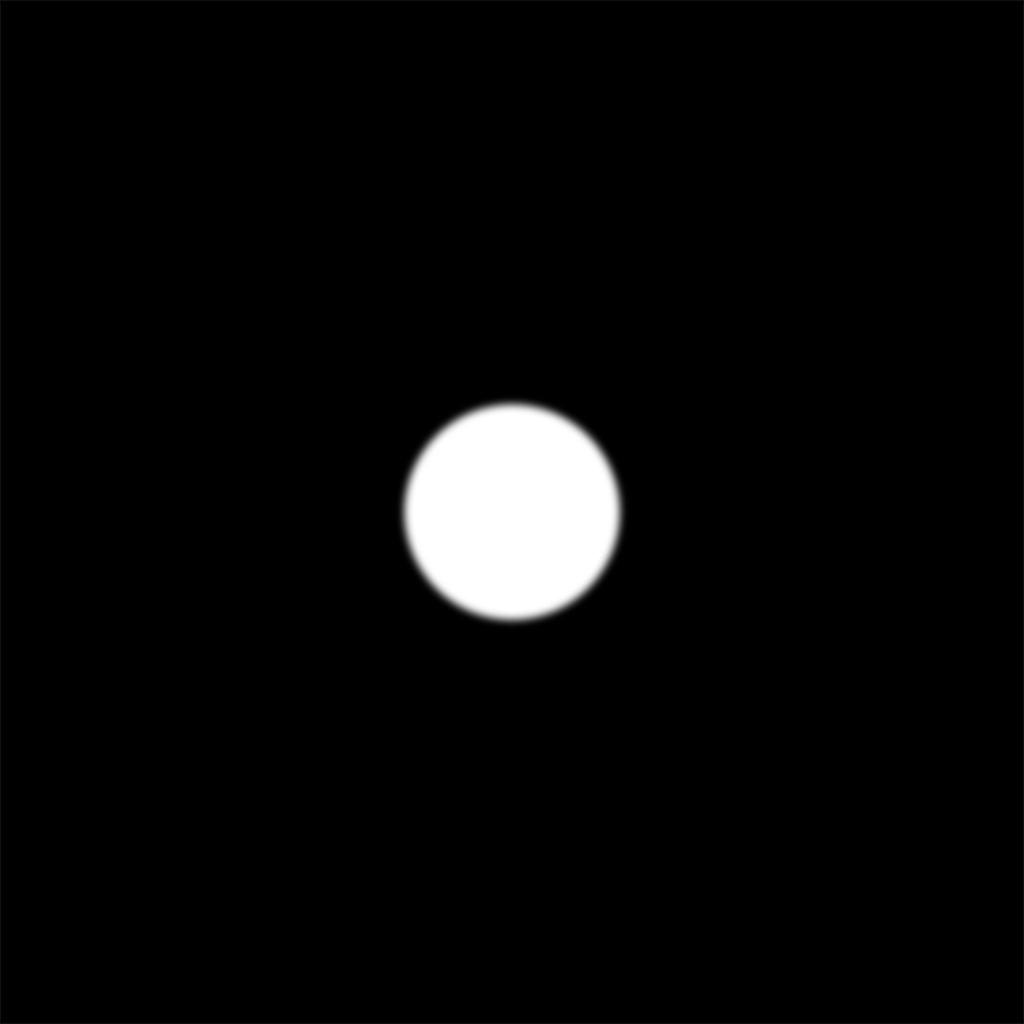
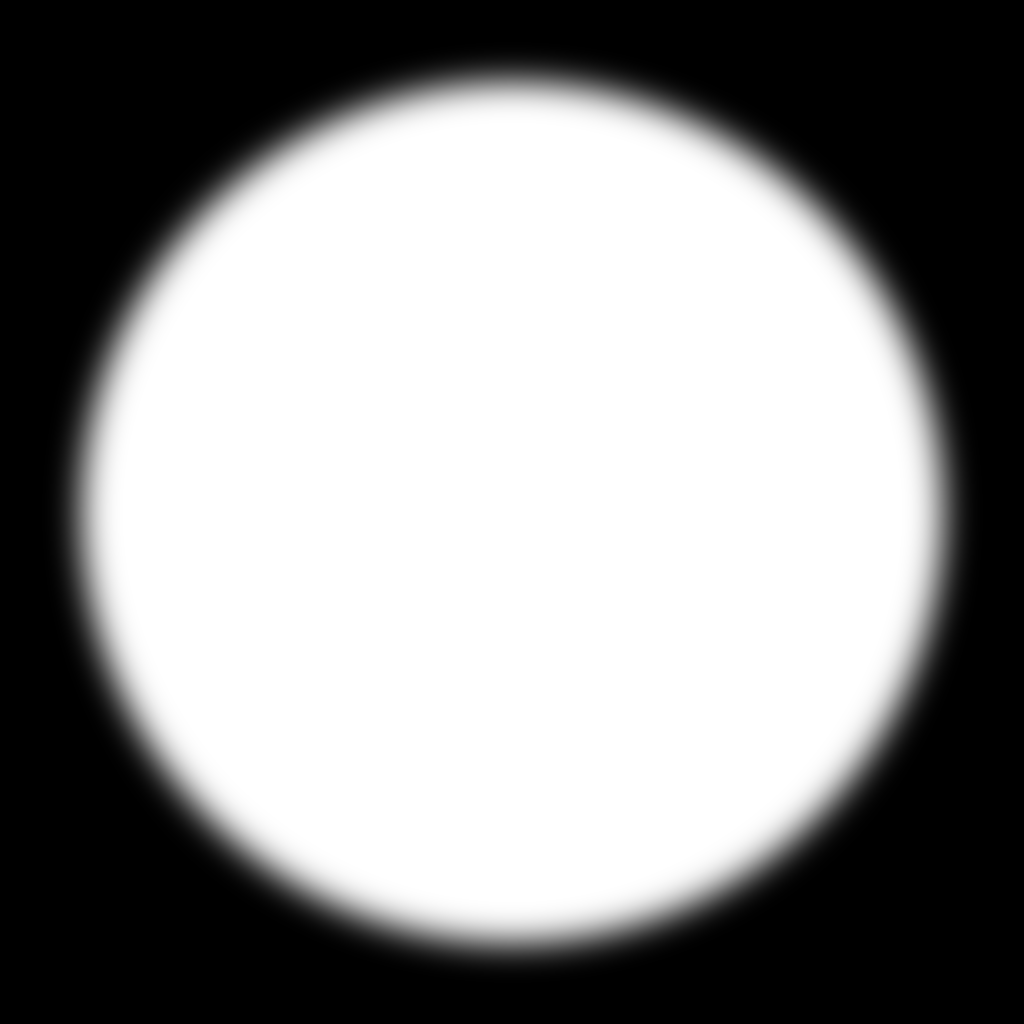
Slightly better scope but needs work

diff --git a/code/ui/LongshotScope.scss b/code/ui/LongshotScope.scss
@@ -5,17 +5,21 @@ longshotscope {
 	position: absolute;
 	width: 100%;
 	height: 100%;
-	align-items: center;
-	justify-content: center;
 	left: 0px;
 	top: 0px;
 	opacity: 1;
 	z-index: -1;
 
+	.left, .right, .top, .bottom {
+		background-color: black;
+		position: absolute;
+	}
+
 	.inner {
-		width: 2048px;
-		height: 2048px;
-		margin-top: 10%;
+		width: 1024px;
+		height: 1024px;
+		position: absolute;
+		transform: translateX( -50% ) translateY( -50% );
 	}
 
 	&.hidden {

diff --git a/code/ui/LongshotScope.cs b/code/ui/LongshotScope.cs
@@ -9,6 +9,10 @@ namespace Facepunch.Hover
 	{
 		public static LongshotScope Instance { get; private set; }
 
+		public Panel Left { get; private set; }
+		public Panel Right { get; private set; }
+		public Panel Top { get; private set; }
+		public Panel Bottom { get; private set; }
 		public Image Inner { get; private set; }
 
 		public void Show()
@@ -25,11 +29,48 @@ namespace Facepunch.Hover
 		{
 			StyleSheet.Load( "/ui/LongshotScope.scss" );
 
+			Left = Add.Panel( "left" );
+			Right = Add.Panel( "right" );
+			Top = Add.Panel( "top" );
+			Bottom = Add.Panel( "bottom" );
 			Inner = Add.Image( "ui/scope_inner.png", "inner" );
 
 			Instance = this;
 
 			Hide();
+		}
+
+		public override void Tick()
+		{
+			var screenSize = Screen.Size * ScaleFromScreen;
+			var scopeSize = screenSize.y * 0.5f;
+
+			Inner.Style.Width = scopeSize;
+			Inner.Style.Height = scopeSize;
+			Inner.Style.Left = Length.Pixels( screenSize.x / 2f );
+			Inner.Style.Top = Length.Pixels( screenSize.y / 2f );
+
+			Left.Style.Width = ((screenSize.x * 0.5f) - (scopeSize * 0.5f)) + 1f;
+			Left.Style.Top = scopeSize * 0.5f;
+			Left.Style.Left = 0f;
+			Left.Style.Height = screenSize.y - (scopeSize * 0.5f);
+
+			Right.Style.Width = Left.Style.Width;
+			Right.Style.Left = ((screenSize.x * 0.5f) + (scopeSize * 0.5f)) - 1f;
+			Right.Style.Top = scopeSize * 0.5f;
+			Right.Style.Height = screenSize.y - (scopeSize * 0.5f);
+
+			Top.Style.Top = 0f;
+			Top.Style.Width = screenSize.x;
+			Top.Style.Height = (scopeSize * 0.5f) + 1f;
+			Top.Style.Left = 0f;
+
+			Bottom.Style.Bottom = 0f;
+			Bottom.Style.Width = screenSize.x;
+			Bottom.Style.Height = (scopeSize * 0.5f) + 1f;
+			Bottom.Style.Left = 0f;
+
+			base.Tick();
 		}
 	}
 }
